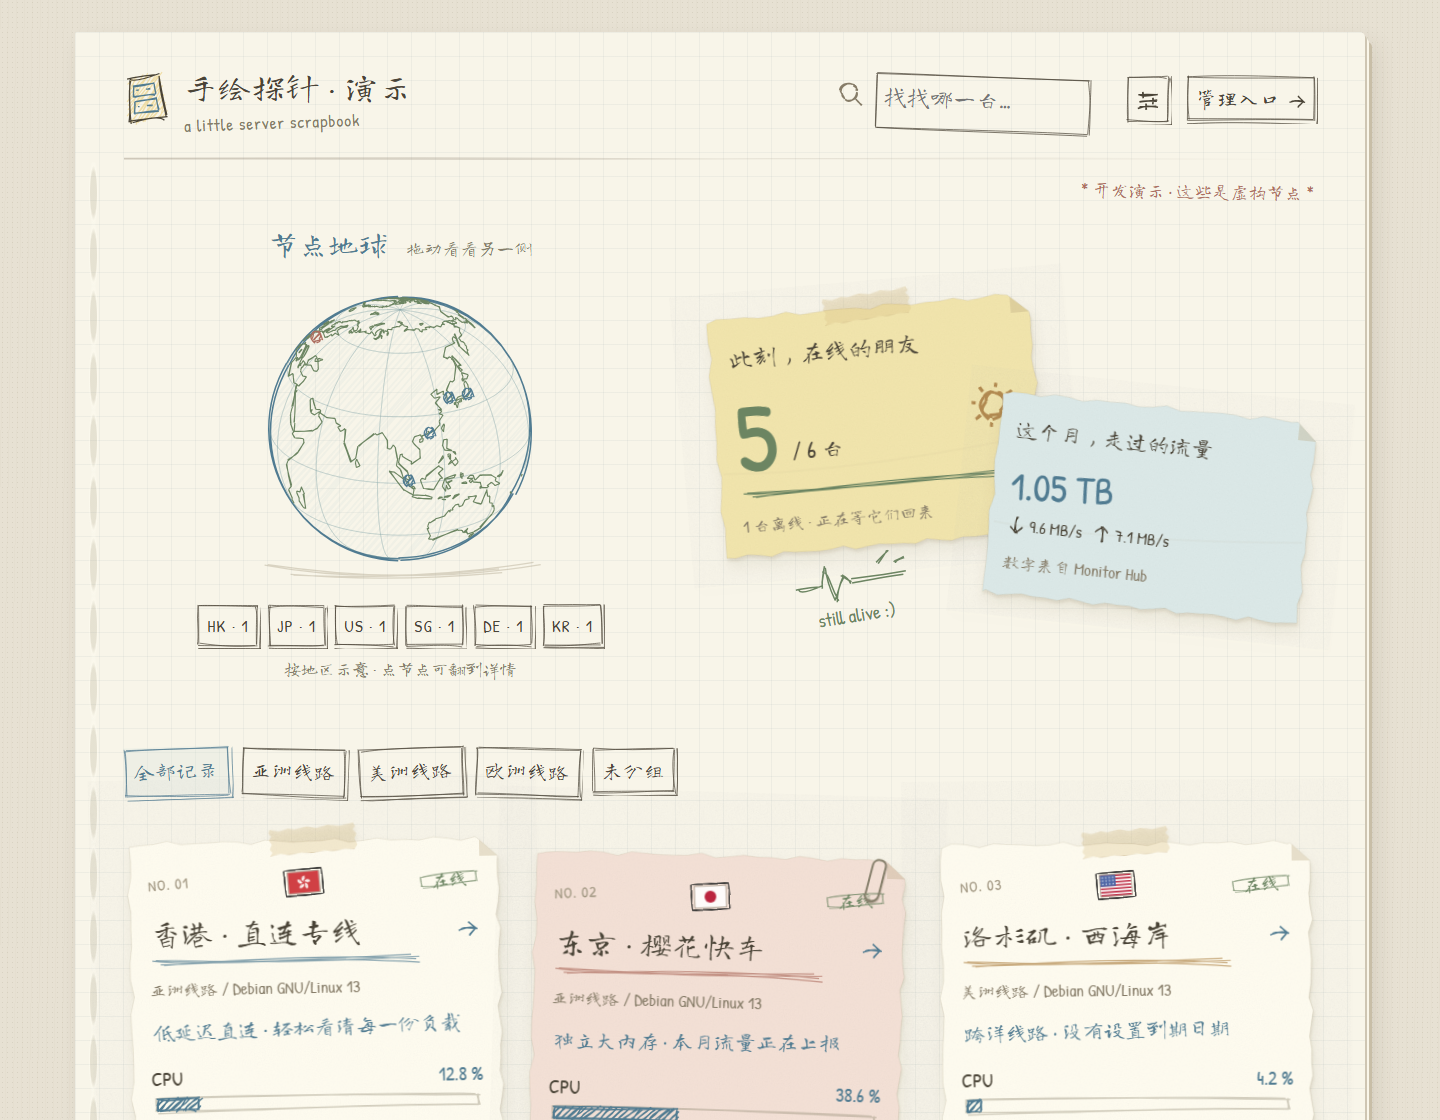
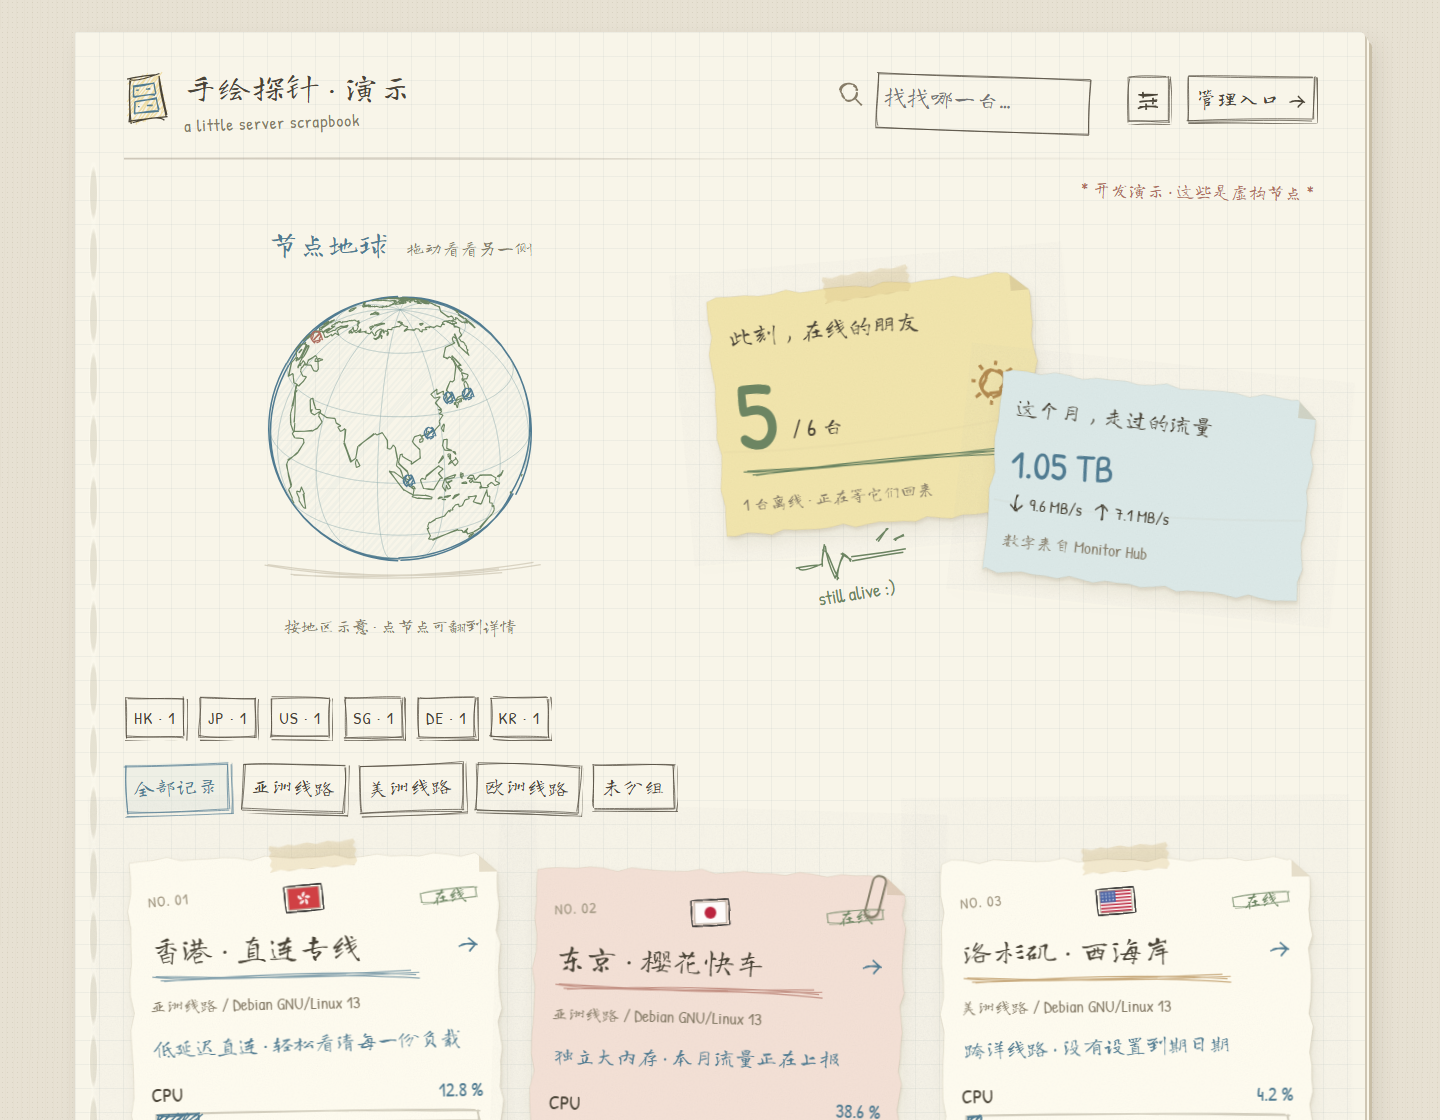
Move globe country controls above node list

diff --git a/src/components/Globe.tsx b/src/components/Globe.tsx
@@ -1,12 +1,12 @@
-import {useMemo,useRef,useState} from 'react';
+import {useEffect,useMemo,useRef,useState} from 'react';
 import type {Node} from '../data/api';
 import {coastlines,coordinates,countryCode,gridlines,project} from '../domain/globe';
 import {Button,Stroke} from './Sketch';
-export function Globe({nodes,onOpen}:{nodes:Node[];onOpen:(id:number)=>void}){
- const [view,setView]=useState({lon:100,lat:25}),[focus,setFocus]=useState('');
+export function Globe({nodes,onOpen,focus,onFocus}:{nodes:Node[];onOpen:(id:number)=>void;focus:string;onFocus:(code:string)=>void}){
+ const [view,setView]=useState({lon:100,lat:25});
+ useEffect(()=>{const ll=coordinates(focus);if(ll)setView({lon:ll[0],lat:ll[1]});},[focus]);
  const drag=useRef<{x:number;y:number;lon:number;lat:number}|null>(null);
  const land=useMemo(()=>coastlines(view),[view]),grid=useMemo(()=>gridlines(view),[view]);
- const countries=[...new Set(nodes.map(n=>countryCode(n.country)))].filter(c=>coordinates(c));
  const unmapped=nodes.filter(n=>!coordinates(n.country)).length;
  const points=nodes.flatMap(n=>{
   const ll=coordinates(n.country);if(!ll)return [];
@@ -19,7 +19,7 @@ export function Globe({nodes,onOpen}:{nodes:Node[];onOpen:(id:number)=>void}){
   <div className="globe-caption"><span>节点地球</span><small>拖动看看另一侧</small></div>
   <svg className="globe-map" viewBox="0 0 440 270" aria-label="节点地区分布，可拖动地球或点击节点" role="group"
    onPointerDown={e=>{if((e.target as Element).closest('.globe-pin'))return;drag.current={x:e.clientX,y:e.clientY,...view};e.currentTarget.setPointerCapture(e.pointerId);}}
-   onPointerMove={e=>{const d=drag.current;if(!d)return;const scale=440/e.currentTarget.getBoundingClientRect().width;setFocus('');setView({lon:(((d.lon-(e.clientX-d.x)*scale*.48+180)%360+360)%360)-180,lat:Math.max(-65,Math.min(65,d.lat+(e.clientY-d.y)*scale*.36))});}}
+   onPointerMove={e=>{const d=drag.current;if(!d)return;const scale=440/e.currentTarget.getBoundingClientRect().width;onFocus('');setView({lon:(((d.lon-(e.clientX-d.x)*scale*.48+180)%360+360)%360)-180,lat:Math.max(-65,Math.min(65,d.lat+(e.clientY-d.y)*scale*.36))});}}
    onPointerUp={e=>{drag.current=null;if(e.currentTarget.hasPointerCapture(e.pointerId))e.currentTarget.releasePointerCapture(e.pointerId);}}
    onPointerCancel={()=>{drag.current=null;}}>
    <Stroke d="M220 26 A104 104 0 1 1 220 234 A104 104 0 1 1 220 26" fill="#bed5d222" color="var(--blue)" roughness={.9} weight={1.2}/>
@@ -32,7 +32,11 @@ export function Globe({nodes,onOpen}:{nodes:Node[];onOpen:(id:number)=>void}){
     <Stroke d={`M${x} ${y-4} A4 4 0 1 1 ${x} ${y+4} A4 4 0 1 1 ${x} ${y-4}`} color={node.online?'var(--blue)':'var(--red)'} fill={node.online?'var(--blue)':'var(--red)'} roughness={.7} weight={1}/>
    </g>)}
   </svg>
-  <div className="globe-regions" aria-label="地球地区视角">{countries.map(code=><Button key={code} label={`查看 ${code} 地区`} pressed={focus===code} onClick={()=>{const ll=coordinates(code)!;setFocus(code);setView({lon:ll[0],lat:ll[1]});}}>{code} · {nodes.filter(n=>countryCode(n.country)===code).length}</Button>)}</div>
   <small className="globe-note">按地区示意 · 点节点可翻到详情{unmapped?` · ${unmapped} 台地区未知`:''}</small>
  </div>;
+}
+
+export function GlobeRegions({nodes,focus,onFocus}:{nodes:Node[];focus:string;onFocus:(code:string)=>void}){
+ const countries=[...new Set(nodes.map(n=>countryCode(n.country)))].filter(c=>coordinates(c));
+ return <div className="globe-regions" aria-label="地球地区视角">{countries.map(code=><Button key={code} label={`查看 ${code} 地区`} pressed={focus===code} onClick={()=>onFocus(code)}>{code} · {nodes.filter(n=>countryCode(n.country)===code).length}</Button>)}</div>;
 }

diff --git a/src/App.tsx b/src/App.tsx
@@ -12,7 +12,7 @@ import {
   Stroke,
 } from "./components/Sketch";
 import { NodeCard } from "./components/NodeCard";
-import { Globe } from "./components/Globe";
+import { Globe, GlobeRegions } from "./components/Globe";
 import { Detail } from "./components/Detail";
 import "./styles/app.css";
 type Me = {
@@ -39,6 +39,7 @@ export default function App() {
   const [config, setConfig] = useState<Record<string, unknown>>({});
   const [meError, setMeError] = useState("");
   const [id, setId] = useState(readRoute);
+  const [globeCountry, setGlobeCountry] = useState("");
   const [query, setQuery] = useState("");
   const [group, setGroup] = useState<string | null>(null);
   const [ink, setInk] = useState(preference);
@@ -188,7 +189,7 @@ export default function App() {
         ) : (
           <>
             <section className="opening">
-              <Globe nodes={visible} onOpen={go} />
+              <Globe nodes={visible} onOpen={go} focus={globeCountry} onFocus={setGlobeCountry} />
               <div className="loose-notes">
                 <Paper color="yellow" className="now-note" tape seed={3}>
                   <span className="note-label">此刻，在线的朋友</span>
@@ -227,6 +228,7 @@ export default function App() {
               </div>
             </section>
             <section className="node-section" aria-label="节点列表">
+              <GlobeRegions nodes={visible} focus={globeCountry} onFocus={setGlobeCountry} />
               {groups.length > 0 && (
                 <div className="group-tabs">
                   <Button

diff --git a/src/styles/app.css b/src/styles/app.css
@@ -1371,3 +1371,5 @@ footer > span:last-child {
 .masthead .search-note{width:250px;min-width:0}
 .masthead .ink-search{width:100%;min-width:0}
 @media(max-width:720px){.masthead{flex-wrap:wrap}.masthead nav{width:100%;flex:1 0 100%}.masthead .search-note{flex:1;width:auto}.masthead .search-note .ink-icon{flex-shrink:0}}
+
+.node-section > .globe-regions{justify-content:flex-start;margin:12px 0 24px;gap:8px 12px}
